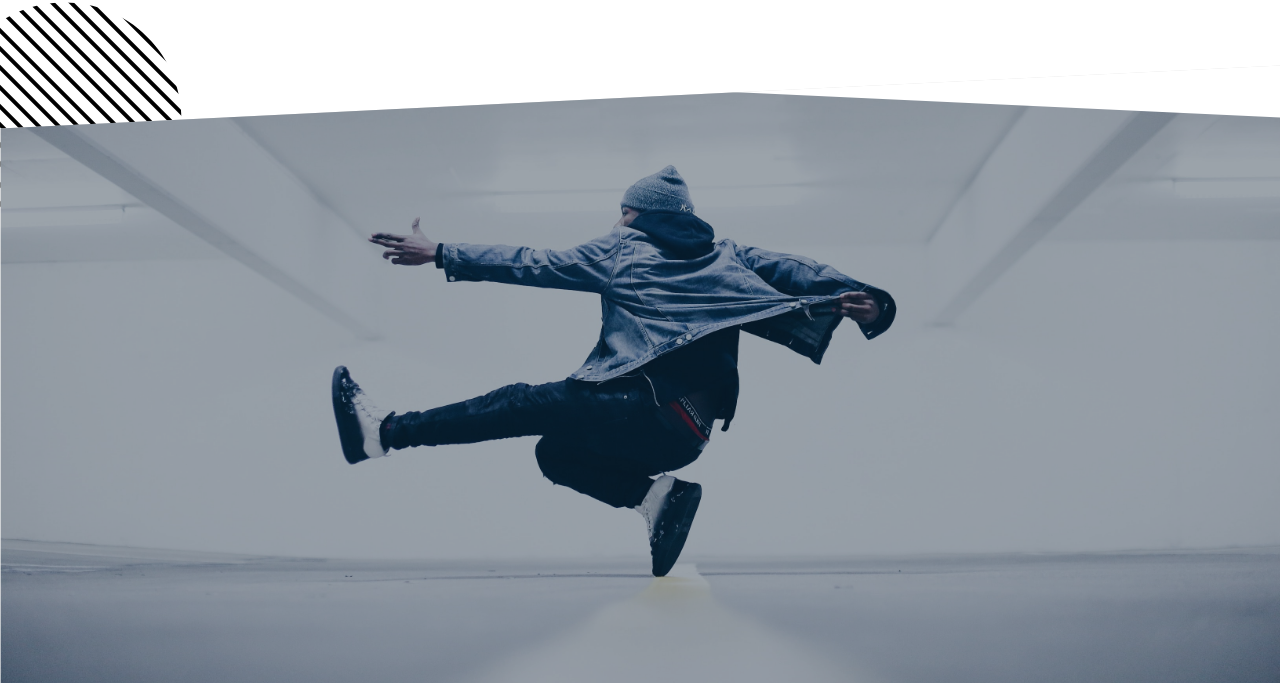
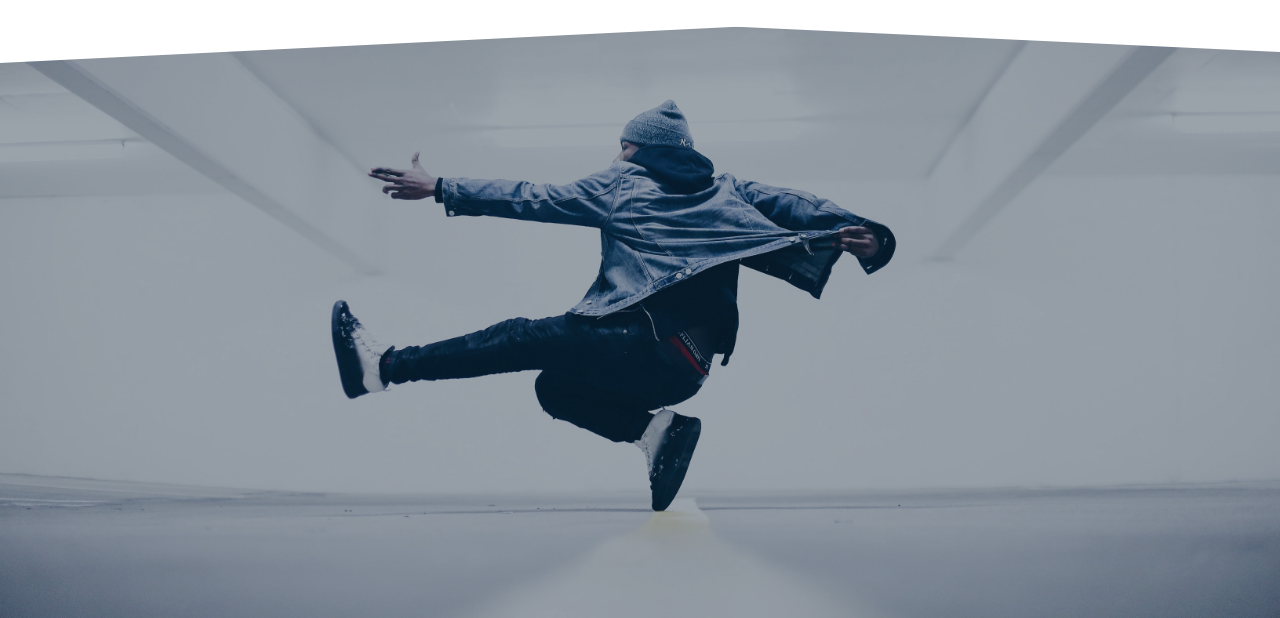
Visual aspect complete

diff --git a/index.html b/index.html
@@ -130,11 +130,36 @@
             </div>
         </div>
     </section>
+    <div class="border-skew"></div>
     <section class="contact">
         <div class="row justify-content-center">
             <div class="col align-self-center text-center">
                 <h2>¿Hablamos?</h2>
-                <button type="button" class="btn btn-primary text-white px-5">Comenzar</button>
+                <button type="button" class="btn btn-primary text-white px-4">Contactar</button>
+            </div>
+        </div>
+        <div class="row foot mx-5">
+            <div class="col px-0">
+              
+                <nav class="navbar navbar-expand-lg navbar-dark">
+                    <div class="container-fluid px-0">
+                        <a class="navbar-brand" href="#">
+                            <img src="images/logo.png" class="img-fluid my-3" alt="Bluecell" />
+                          </a>
+                      <button class="navbar-toggler" type="button" data-bs-toggle="collapse" data-bs-target="#navbarNavAltMarkup" aria-controls="navbarNavAltMarkup" aria-expanded="false" aria-label="Toggle navigation">
+                        <span class="navbar-toggler-icon"></span>
+                      </button>
+                      <div class="collapse navbar-collapse" id="navbarNavAltMarkup">
+                        <div class="navbar-nav ms-auto my-3">
+                          <a class="nav-link active"href="#">Bases legales</a>
+                          <a class="nav-link active" href="#">Política de privacidad</a>
+                          <a class="nav-link active" href="#">Politica de cookies</a>
+                        </div>
+                      </div>
+                    </div>
+                  </nav>
+              
+                
             </div>
         </div>
     </section>

diff --git a/sass/main.scss b/sass/main.scss
@@ -58,37 +58,59 @@ h2{
     background-image: linear-gradient(180deg, $primary 0%, $background2 100%);
     background-size: 100%;
     padding: 4em 0;
-
-    /*.border{
-        height: 2em;
-        position: relative;
-        width: 100%;
-    }
-
-    .border:after{
-        background: inherit;
-  bottom: 0;
-  content: '';
-  height: 100%;
-  left: 0;
-  position: absolute;
-  right: 0;
-  transform: skewY(-3deg);
-  transform-origin: 100%;
-  width: 100%;
-  z-index: -1;
-    }*/
     
+}
+
+.border-skew{
+    background: $background2;
+    height: 7.5em;
+    position: relative;
+    width: 100%;
+    border:none;
+}
+
+.border-skew:after{
+    background: inherit;
+    background-image: url('../images/group-20.png');
+    background-position: bottom -120px left -60px;
+    background-repeat: no-repeat;
+    bottom: 0;
+    content: '';
+    height: 100%;
+    left: 0;
+    position: absolute;
+    right: 0;
+    transform: skewY(-3deg);
+    transform-origin: 100%;
+    width: 100%;
+
 }
 
 .contact{
     min-height: 618px;
     background-image: url('../images/bkg-hablamos.png');
-    margin-top: -50px;
-    padding-top: 22%;
+    background-repeat: no-repeat;
+
+    .row:first-child{
+        padding: 16% 0 15% 0;
+    }
 
     h2{
         font-size: 5em;
+    }
+
+    .foot{
+        border-top: 2px solid #fff;
+        max-height: 120px;
+
+        .navbar-brand img{
+            max-width: 80%;
+        }
+
+        .nav-link{
+            font-size: 12px;
+            margin-left: 20px;
+        }
     }
 }
 

diff --git a/css/main.css b/css/main.css
@@ -12908,33 +12908,53 @@ h2, .h2 {
   background-image: linear-gradient(180deg, #EA516E 0%, #575AA3 100%);
   background-size: 100%;
   padding: 4em 0;
-  /*.border{
-        height: 2em;
-        position: relative;
-        width: 100%;
-    }
+}
 
-    .border:after{
-        background: inherit;
+.border-skew {
+  background: #575AA3;
+  height: 7.5em;
+  position: relative;
+  width: 100%;
+  border: none;
+}
+
+.border-skew:after {
+  background: inherit;
+  background-image: url("../images/group-20.png");
+  background-position: bottom -120px left -60px;
+  background-repeat: no-repeat;
   bottom: 0;
-  content: '';
+  content: "";
   height: 100%;
   left: 0;
   position: absolute;
   right: 0;
-  transform: skewY(-3deg);
-  transform-origin: 100%;
+  -webkit-transform: skewY(-3deg);
+          transform: skewY(-3deg);
+  -webkit-transform-origin: 100%;
+          transform-origin: 100%;
   width: 100%;
-  z-index: -1;
-    }*/
 }
 
 .contact {
   min-height: 618px;
   background-image: url("../images/bkg-hablamos.png");
-  margin-top: -50px;
-  padding-top: 22%;
+  background-repeat: no-repeat;
+}
+.contact .row:first-child {
+  padding: 16% 0 15% 0;
 }
 .contact h2, .contact .h2 {
   font-size: 5em;
+}
+.contact .foot {
+  border-top: 2px solid #fff;
+  max-height: 120px;
+}
+.contact .foot .navbar-brand img {
+  max-width: 80%;
+}
+.contact .foot .nav-link {
+  font-size: 12px;
+  margin-left: 20px;
 }
